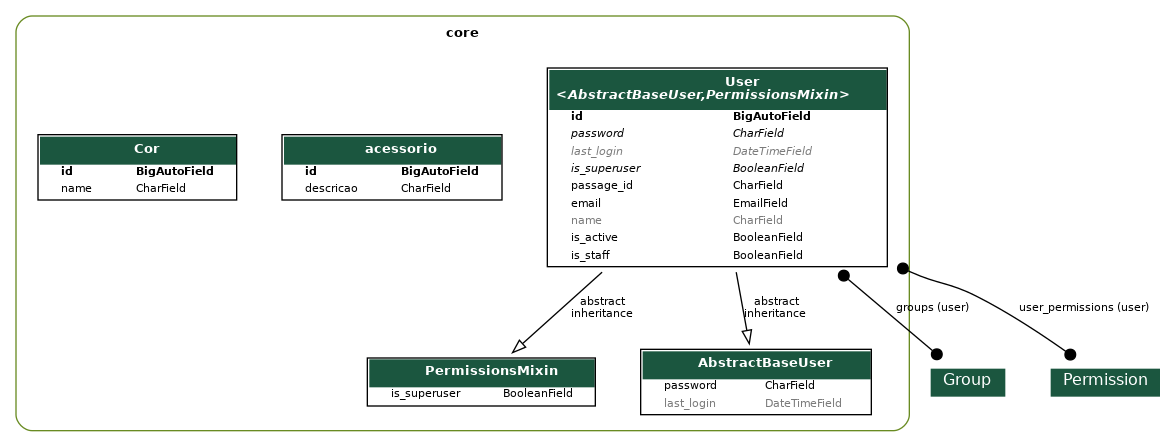
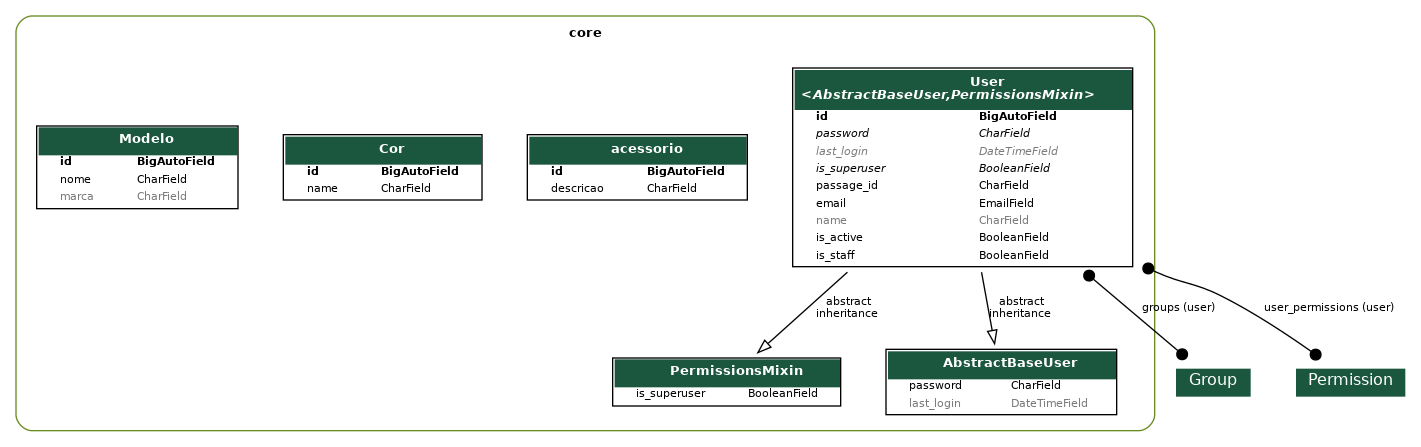
feat: criação da API para Modelo

diff --git a/core/migrations/0007_modelo.py b/core/migrations/0007_modelo.py
@@ -1,0 +1,21 @@
+# Generated by Django 5.1.7 on 2025-04-25 18:59
+
+from django.db import migrations, models
+
+
+class Migration(migrations.Migration):
+
+    dependencies = [
+        ('core', '0006_cor'),
+    ]
+
+    operations = [
+        migrations.CreateModel(
+            name='Modelo',
+            fields=[
+                ('id', models.BigAutoField(auto_created=True, primary_key=True, serialize=False, verbose_name='ID')),
+                ('nome', models.CharField(max_length=40)),
+                ('marca', models.CharField(blank=True, max_length=80)),
+            ],
+        ),
+    ]

diff --git a/app/urls.py b/app/urls.py
@@ -7,13 +7,14 @@ from drf_spectacular.views import (
 )
 from rest_framework.routers import DefaultRouter
 
-from core.views import UserViewSet, acessorioViewSet, CorViewSet
+from core.views import UserViewSet, acessorioViewSet, CorViewSet, ModeloViewSet
 
 router = DefaultRouter()
 
 router.register(r'usuarios', UserViewSet, basename='usuarios')
 router.register(r"acessorio", acessorioViewSet)
 router.register(r"cor", CorViewSet)
+router.register(r"modelo", ModeloViewSet)
 
 urlpatterns = [
     path('admin/', admin.site.urls),

diff --git a/core/models/modelo.py b/core/models/modelo.py
@@ -1,0 +1,8 @@
+from django.db import models
+
+class Modelo(models.Model):
+    nome = models.CharField(max_length=40)
+    marca = models.CharField(max_length=80, blank=True)
+    categoria = models.CharField(max_length=80, blank=True)
+    def __str__(self):
+        return f"({self.id}) {self.nome} {self.marca}"

diff --git a/core/views/Modelo.py b/core/views/Modelo.py
@@ -1,0 +1,9 @@
+from rest_framework.viewsets import ModelViewSet
+
+from core.models import Modelo
+from core.serializers import ModeloSerializer
+
+...
+class ModeloViewSet(ModelViewSet):
+    queryset = Modelo.objects.all()
+    serializer_class = ModeloSerializer

diff --git a/core/serializers/Modelo.py b/core/serializers/Modelo.py
@@ -1,0 +1,8 @@
+from rest_framework.serializers import ModelSerializer
+
+from core.models import Modelo
+
+class ModeloSerializer(ModelSerializer):
+    class Meta:
+        model =  Modelo
+        fields = "__all__"

diff --git a/core/admin.py b/core/admin.py
@@ -53,3 +53,5 @@ class UserAdmin(BaseUserAdmin):
 
 admin.site.register(models.User, UserAdmin)
 admin.site.register(models.acessorio)
+admin.site.register(models. Cor)
+admin.site.register(models.Modelo)

diff --git a/core/serializers/__init__.py b/core/serializers/__init__.py
@@ -2,3 +2,4 @@ from .user import UserSerializer
 ...
 from .acessorio import acessorioSerializer
 from .cor import CorSerializer
+from .Modelo import ModeloSerializer

diff --git a/core/views/__init__.py b/core/views/__init__.py
@@ -3,3 +3,5 @@ from .user import UserViewSet
 from .acessorio import acessorioViewSet
 
 from .cor import CorViewSet
+
+from .Modelo import ModeloViewSet

diff --git a/core/models/__init__.py b/core/models/__init__.py
@@ -1,3 +1,4 @@
 from .user import User
 from .acessorio import acessorio
 from .cor import Cor
+from.modelo import Modelo
